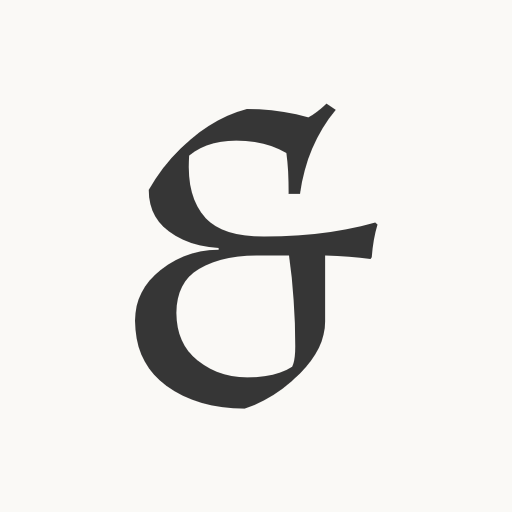
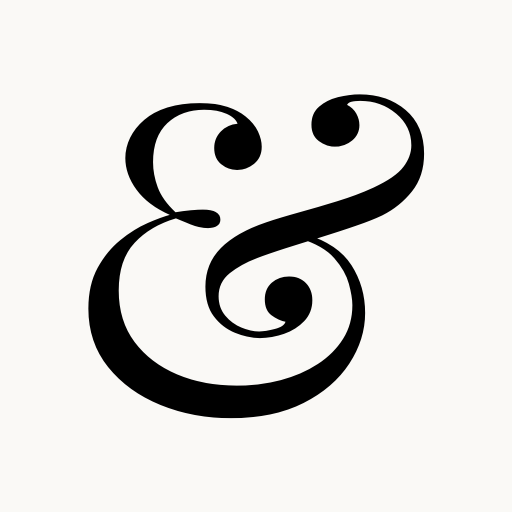
Update fonts

Changed region(s): [[0.1562, 0.1562, 0.8438, 0.8438]]

diff --git a/index.html b/index.html
@@ -10,7 +10,7 @@
     <link rel="manifest" href="site.webmanifest">
     <link rel="preconnect" href="https://fonts.googleapis.com">
     <link rel="preconnect" href="https://fonts.gstatic.com" crossorigin>
-    <link href="https://fonts.googleapis.com/css2?family=Almendra+SC&family=Almendra:ital@1&display=swap" rel="stylesheet">
+    <link href="https://fonts.googleapis.com/css2?family=Baskervville&family=Playfair+Display&display=swap" rel="stylesheet">
     <link rel="stylesheet" href="https://cdn.jsdelivr.net/npm/bulma@0.9.3/css/bulma.min.css">
     <link rel="stylesheet" href="custom.css">
   </head>
@@ -23,11 +23,11 @@
           <figure class="image is-square image-blurred-edge">
             <img src="hero-painted.jpg" title="Art by Sarah Letscher" alt="A painting depicting the happy couple">
           </figure>
-          <h1 class="title">
-            Shannon & Daniel
+          <h1 class="title is-1">
+            SHANNON & DANIEL
           </h1>
-          <p class="subtitle">
-            More details to come!
+          <p class="subtitle is-6">
+            more details to come
           </p>
         </div>
         <div class="column is-hidden-touch is-one-fifth-desktop is-one-quarter-widescreen"></div>

diff --git a/custom.css b/custom.css
@@ -17,12 +17,14 @@ body {
 }
 
 .title {
-    font-family: 'Almendra SC', serif;
-    color: #867512;
+    font-family: 'Playfair Display', serif;
+    color: black;
+    letter-spacing: 5px;
 }
 
 .subtitle {
-    font-family: 'Almendra', serif;
-    font-style: italic;
-    color: #867512;
+    font-family: 'Baskervville', serif;
+    font-weight: bold;
+    color: black;
+    letter-spacing: 6px;
 }
